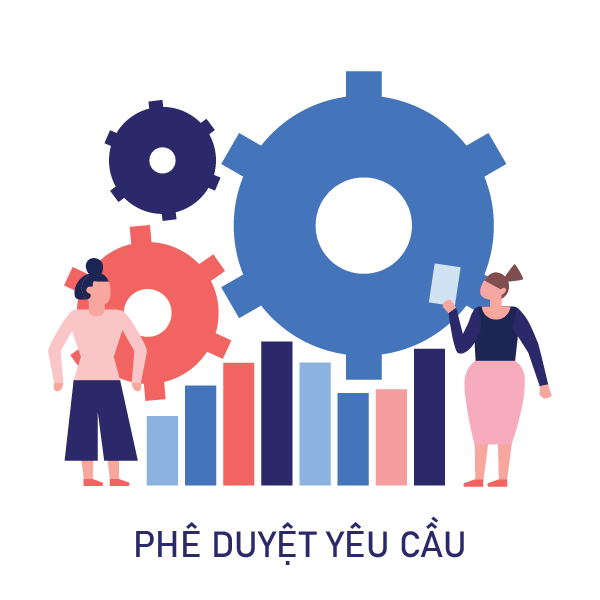
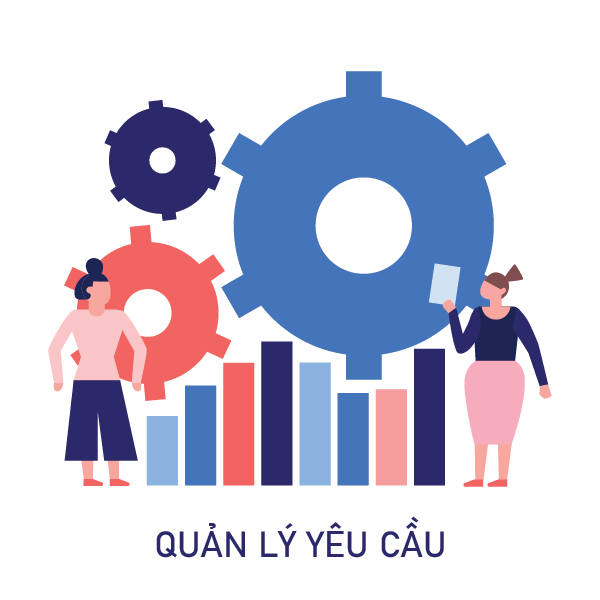
fix design

Changed region(s): [[0.21, 0.87, 0.78, 0.93]]

diff --git a/src/Controllers/HomeScreenController/UserScreenController.java b/src/Controllers/HomeScreenController/UserScreenController.java
@@ -16,8 +16,6 @@ public class UserScreenController {
     @FXML
     private Button donhangBtn;
     @FXML
-    private Button pheduyetycBtn;
-    @FXML
     private Button thongkeBtn;
     @FXML
     private Button sanphamBtn;
